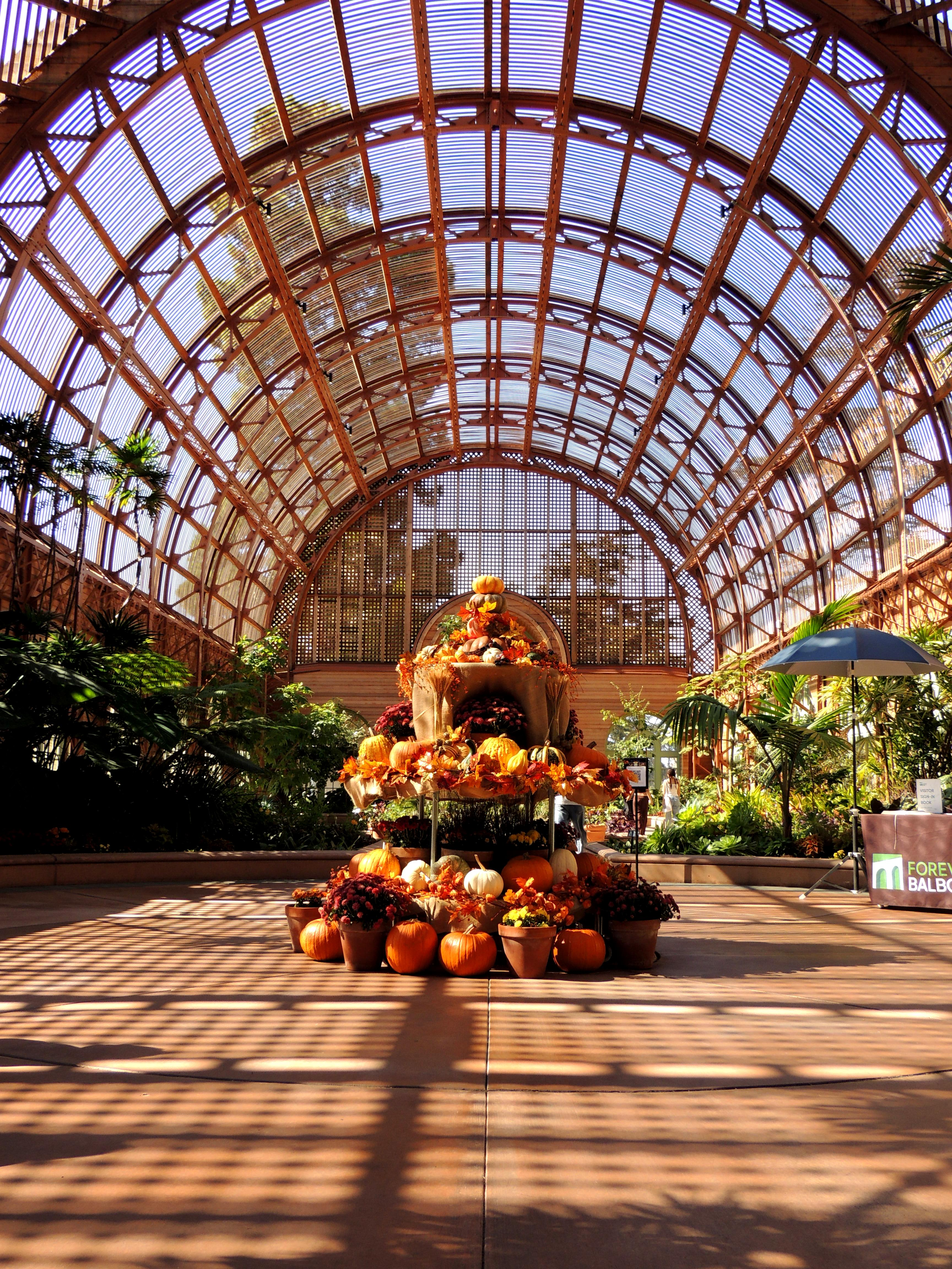
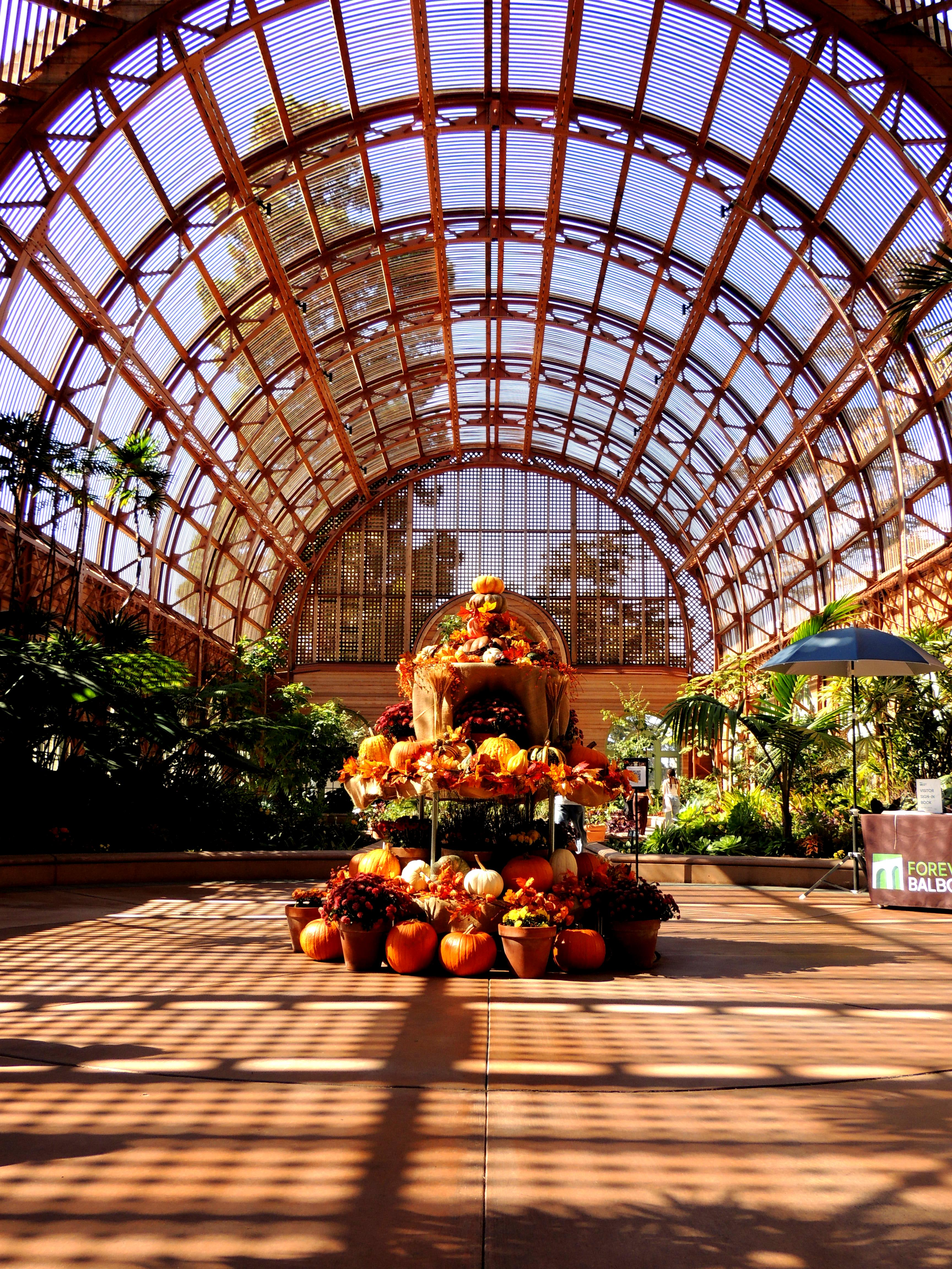
Finalize Python is Awesome project

diff --git a/Assignments/PR1/main.py b/Assignments/PR1/main.py
@@ -73,16 +73,20 @@ brightImage.save("SD25_Botanical1_Bright.JPG")
 ## Contrast Manipulation ##
 ###########################
 img = Image.open("SD25_Botanical2.JPG")
-img = ImageOps.exif_transpose(img) # Needed because original stored image was externally rotated
+
+# Needed because original stored image was externally rotated
+# EXIF = Exchangeable Image File Format
+# Pillow doesn't automatically read, this command sets it right
+img = ImageOps.exif_transpose(img) 
 
 con_enhancer = ImageEnhance.Contrast(img)
 
 # Increase contrast (1.0 = original)
-higher_contrast = con_enhancer.enhance(1.2)   # 20% more contrast
+higher_contrast = con_enhancer.enhance(1.4)   # 20% more contrast
 higher_contrast.save("SD25_Botanical2_HighCon.JPG")
 
 # Decrease contrast
-lower_contrast = con_enhancer.enhance(0.8)    # 20% less contrast
+lower_contrast = con_enhancer.enhance(0.7)    # 20% less contrast
 lower_contrast.save("SD25_Botanical2_LowCon.JPG")
 
 
